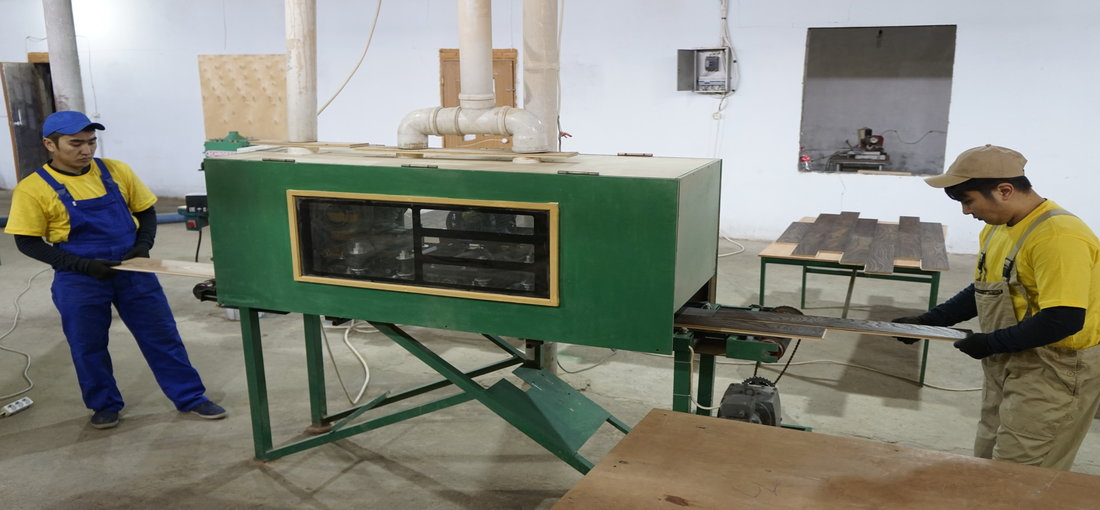
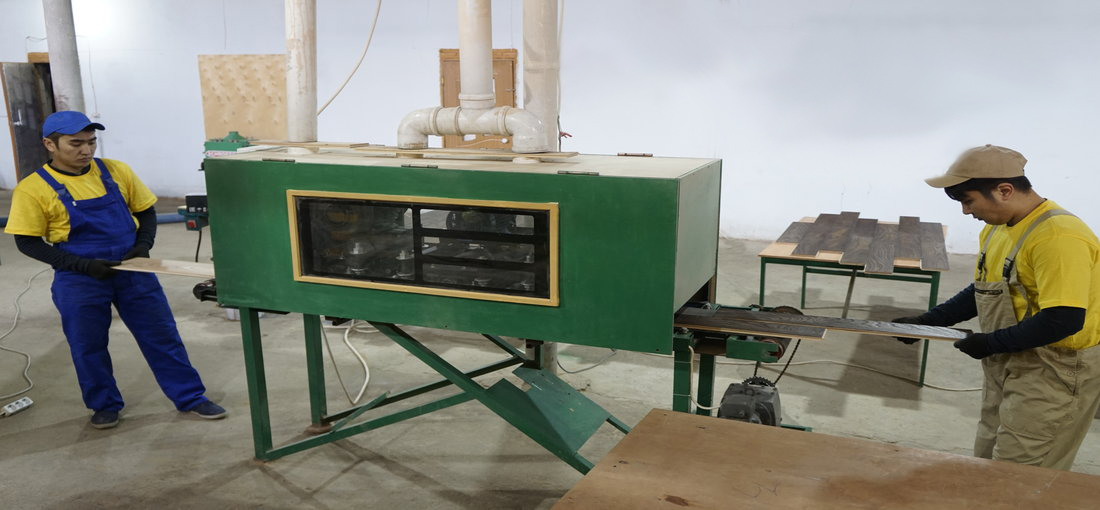
chaned images

Changed region(s): [[0.7109, 0.0294, 0.8964, 0.3529], [0.5873, 0.0, 0.68, 0.2353], [0.6491, 0.4706, 0.68, 0.5]]

diff --git a/templates/index.html b/templates/index.html
@@ -882,7 +882,7 @@
 
                 <div class="stage">
                     <div class="shadow"></div>
-                    <img src="{% static 'images/step3.jpg' %}" alt="image">
+                    <img src="{% static 'images/stepv2.JPG' %}" alt="image">
                     <p class="stage_desc">Нарезка на ламели с помощью японского станка с программным обеспечением от
                         компании Siemens. Он позволяет задавать ширину доски с идеальной точностью.
                     </p>
